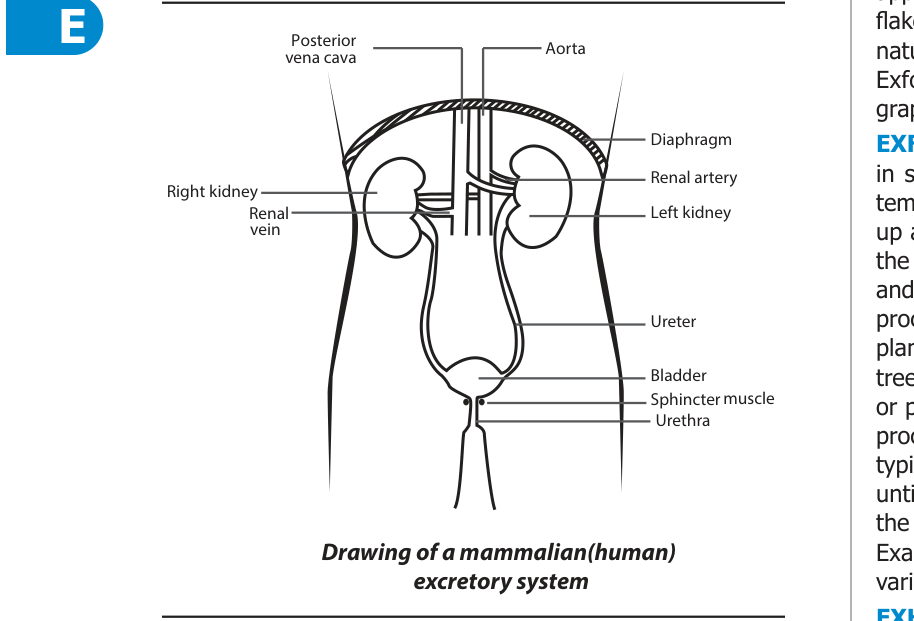
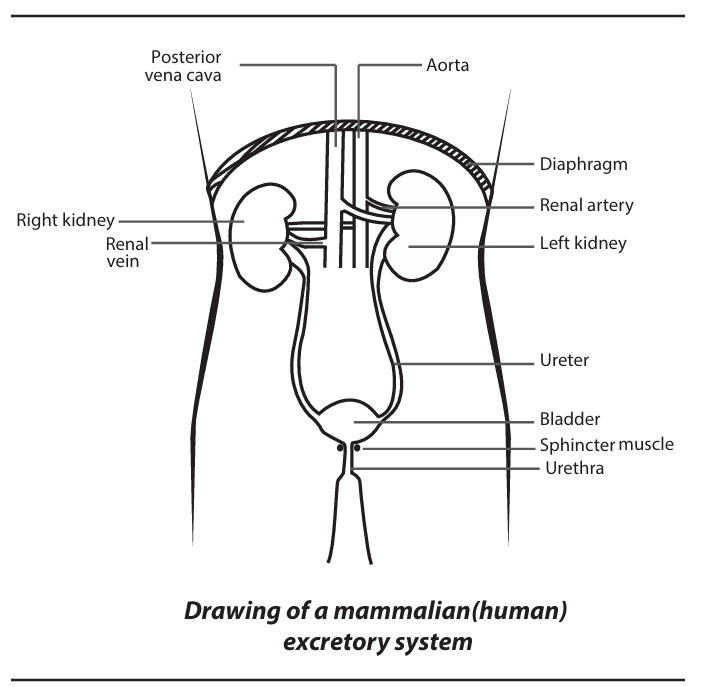
Section E-F Batch 6: excretory system, excurrent leaf, exothermic reaction, explanate flower, exterior angles, external work done on expansion, extrinsic semiconductor, mammalian eye, face-centred cube, fact triangle

Changed region(s): [[0.0, 0.0, 1.0, 0.9485], [0.0, 0.8567, 1.0, 1.0], [0.2486, 0.5813, 0.2797, 0.7649]]

diff --git a/core_dictionary_diagrams.js b/core_dictionary_diagrams.js
@@ -196,6 +196,7 @@ const DictionaryDiagrams = {
   "apothecium": "diagrams/dict_apothecium.png",
   "apothem": "diagrams/dict_apothem.png",
   "approximate integration": "diagrams/dict_approximate_integration.png",
+  "aqueous humor": "diagrams/dict_mammalian_eye.png",
   "arabidopsis": "diagrams/dict_arabidopsis.png",
   "arachidonic acid": "diagrams/dict_arachidonic_acid.png",
   "arc": "diagrams/dict_arc.png",
@@ -325,6 +326,7 @@ const DictionaryDiagrams = {
   "blastoderm": "diagrams/dict_egg.png",
   "blastodisc": "diagrams/dict_blastodisc.png",
   "blastodisc of egg": "diagrams/dict_blastodisc_of_egg.png",
+  "blind spot": "diagrams/dict_mammalian_eye.png",
   "block and tackle": "diagrams/dict_block_and_tackle.png",
   "blood capillary": "diagrams/dict_blood_capillary.png",
   "boiling point composition diagram": "diagrams/dict_boiling_point_composition_diagram.png",
@@ -480,6 +482,7 @@ const DictionaryDiagrams = {
   "chloroplast": "diagrams/dict_chloroplast.png",
   "chloroprene": "diagrams/dict_chloroprene.png",
   "cholesterol": "diagrams/dict_cholesterol.png",
+  "choroid": "diagrams/dict_mammalian_eye.png",
   "chromatic aberration": "diagrams/dict_chromatic_aberration.png",
   "chromatic number": "diagrams/dict_chromatic_number.png",
   "ciliate": "diagrams/dict_ciliate.png",
@@ -546,6 +549,7 @@ const DictionaryDiagrams = {
   "concavity": "diagrams/dict_concavity.png",
   "conduction band": "diagrams/dict_energy_band.png",
   "cone": "diagrams/dict_circular_cone.png",
+  "conjunctiva": "diagrams/dict_mammalian_eye.png",
   "connate": "diagrams/dict_connate_perfoliate.png",
   "connate perfoliate": "diagrams/dict_connate_perfoliate.png",
   "connate-perfoliate": "diagrams/dict_connate_perfoliate.png",
@@ -563,6 +567,7 @@ const DictionaryDiagrams = {
   "corm": "diagrams/dict_corm_cocoyam.png",
   "corm (bulbo tuber, bulbotuber)": "diagrams/dict_corm_bulbo_tuber_bulbotuber.png",
   "corm (bulbo-tuber; bulbotuber)": "diagrams/dict_corm_bulbo_tuber_bulbotuber.png",
+  "cornea": "diagrams/dict_mammalian_eye.png",
   "corniculate": "diagrams/dict_corniculate.png",
   "corolla": "diagrams/dict_corolla.png",
   "coroniform": "diagrams/dict_coroniform.png",
@@ -837,19 +842,35 @@ const DictionaryDiagrams = {
   "exclusive or": "diagrams/dict_xor_gate.png",
   "excretory system": "diagrams/dict_excretory_system.png",
   "excurrent": "diagrams/dict_excurrent.png",
+  "excurrent leaf": "diagrams/dict_excurrent_leaf.png",
+  "exothermic": "diagrams/dict_exothermic_reaction.png",
   "exothermic reaction": "diagrams/dict_exothermic_reaction.png",
+  "expansion work": "diagrams/dict_external_work_expansion.png",
   "explanate": "diagrams/dict_explanate.png",
+  "explanate flower": "diagrams/dict_explanate_flower.png",
   "extensor": "diagrams/dict_extensor.png",
   "exterior angle": "diagrams/dict_exterior_angle.png",
+  "exterior angles": "diagrams/dict_exterior_angles.png",
+  "exterior angles of a polygon": "diagrams/dict_exterior_angles.png",
+  "exterior angles of a triangle": "diagrams/dict_exterior_angles.png",
   "external features of a centipede": "diagrams/dict_centipede.png",
   "external features of an earthworm": "diagrams/dict_external_features_of_an_earthworm.png",
   "external work": "diagrams/dict_external_work.png",
+  "external work done on expansion": "diagrams/dict_external_work_expansion.png",
+  "extrinsic semiconductor": "diagrams/dict_extrinsic_semiconductor.png",
   "eye": "diagrams/dict_eye.png",
   "eyespot": "diagrams/dict_euglena.png",
+  "face-centered cubic": "diagrams/dict_face_centred_cube.png",
+  "face-centred cube": "diagrams/dict_face_centred_cube.png",
+  "face-centred cubic": "diagrams/dict_face_centred_cube.png",
+  "face-centred cubic lattice": "diagrams/dict_face_centred_cube.png",
+  "fact family": "diagrams/dict_fact_triangle.png",
+  "fact triangle": "diagrams/dict_fact_triangle.png",
   "factor tree": "diagrams/dict_factor_tree.png",
   "fall-out": "diagrams/dict_fall_out.png",
   "fat cell": "diagrams/dict_fat_cell.png",
   "fatty layer": "diagrams/dict_fatty_layer.png",
+  "fcc": "diagrams/dict_face_centred_cube.png",
   "feathers": "diagrams/dict_feathers.png",
   "fern": "diagrams/dict_fern.png",
   "feynman diagram": "diagrams/dict_feynman_diagram.png",
@@ -953,6 +974,7 @@ const DictionaryDiagrams = {
   "hot-wire ammeter": "diagrams/dict_hot_wire_ammeter.png",
   "hot-wire instrument": "diagrams/dict_hot_wire_instrument.png",
   "huckel rule": "diagrams/dict_huckel_rule.png",
+  "human excretory system": "diagrams/dict_excretory_system.png",
   "hydraulic machine": "diagrams/dict_hydraulic_machine.png",
   "hydrogen": "diagrams/dict_hydrogen.png",
   "hydrogen azide": "diagrams/dict_hydrogen_azide_hydrazoic_acid_azoimide.png",
@@ -994,6 +1016,7 @@ const DictionaryDiagrams = {
   "involute": "diagrams/dict_involute.png",
   "ion": "diagrams/dict_ion.png",
   "ionic bond": "diagrams/dict_ionic_bond.png",
+  "iris": "diagrams/dict_mammalian_eye.png",
   "isobutane": "diagrams/dict_isobutane.png",
   "isobutanol": "diagrams/dict_isobutanol.png",
   "isomerism": "diagrams/dict_isomerism.png",
@@ -1067,6 +1090,8 @@ const DictionaryDiagrams = {
   "malleus (hammer)": "diagrams/dict_malleus_hammer.png",
   "mammalia": "diagrams/dict_mammalia.png",
   "mammalian ear": "diagrams/dict_mammalian_ear.png",
+  "mammalian excretory system": "diagrams/dict_excretory_system.png",
+  "mammalian eye": "diagrams/dict_mammalian_eye.png",
   "mango": "diagrams/dict_mango.png",
   "mannitol": "diagrams/dict_mannitol_mannite_manna_sugar.png",
   "mannitol (mannite; manna sugar)": "diagrams/dict_mannitol_mannite_manna_sugar.png",
@@ -1123,6 +1148,7 @@ const DictionaryDiagrams = {
   "multicentre bond": "diagrams/dict_multicentre_bond.png",
   "n-butane": "diagrams/dict_n_butane.png",
   "n-phenylethanamide": "diagrams/dict_acetanilide.png",
+  "n-type semiconductor": "diagrams/dict_extrinsic_semiconductor.png",
   "naphthols": "diagrams/dict_naphthols_naphthyl_group.png",
   "naphthols (naphthyl group)": "diagrams/dict_naphthols_naphthyl_group.png",
   "nephroid": "diagrams/dict_nephroid.png",
@@ -1172,6 +1198,7 @@ const DictionaryDiagrams = {
   "one": "diagrams/dict_one.png",
   "onion": "diagrams/dict_onion.png",
   "opiate endogenous": "diagrams/dict_opiate_endogenous.png",
+  "optic nerve": "diagrams/dict_mammalian_eye.png",
   "optical dispersion": "diagrams/dict_dispersion_prism.png",
   "optical fibre": "diagrams/dict_optical_fibre.png",
   "optical pyrometer": "diagrams/dict_optical_pyrometer.png",
@@ -1194,6 +1221,7 @@ const DictionaryDiagrams = {
   "oxygen": "diagrams/dict_oxygen.png",
   "ozone": "diagrams/dict_ozone.png",
   "p-n junction diode": "diagrams/dict_p_n_junction_diode.png",
+  "p-type semiconductor": "diagrams/dict_extrinsic_semiconductor.png",
   "paleogeography": "diagrams/dict_paleogeography.png",
   "palmate": "diagrams/dict_palmate_digitate.png",
   "palmate (digitate)": "diagrams/dict_palmate_digitate.png",
@@ -1326,6 +1354,7 @@ const DictionaryDiagrams = {
   "prostomium": "diagrams/dict_earthworm.png",
   "pseudocopulation": "diagrams/dict_pseudocopulation.png",
   "pulley": "diagrams/dict_pulley.png",
+  "pupil": "diagrams/dict_mammalian_eye.png",
   "pyramid of numbers": "diagrams/dict_ecological_pyramid.png",
   "quadratic curve": "diagrams/dict_quadratic_curve.png",
   "quinone": "diagrams/dict_benzoquinone.png",
@@ -1335,12 +1364,16 @@ const DictionaryDiagrams = {
   "reaction": "diagrams/dict_reaction.png",
   "reaction coordinate": "diagrams/dict_reaction_coordinate.png",
   "reaction profile": "diagrams/dict_endothermic_reaction.png",
+  "reaction profile diagram": "diagrams/dict_exothermic_reaction.png",
   "reactivity series": "diagrams/dict_reactivity_series.png",
   "rectangular coordinates": "diagrams/dict_rectangular_coordinates.png",
   "reflection": "diagrams/dict_reflection.png",
   "refraction": "diagrams/dict_refraction.png",
+  "renal artery": "diagrams/dict_excretory_system.png",
+  "renal vein": "diagrams/dict_excretory_system.png",
   "resorcinol": "diagrams/dict_resorcinol.png",
   "respiratory system": "diagrams/dict_respiratory_system.png",
+  "retina": "diagrams/dict_mammalian_eye.png",
   "revolution": "diagrams/dict_revolution.png",
   "ricinus communis": "diagrams/dict_castor_oil.png",
   "rock cycle": "diagrams/dict_rock_cycle.png",
@@ -1358,6 +1391,7 @@ const DictionaryDiagrams = {
   "solar system": "diagrams/dict_solar_system.png",
   "specific heat capacity": "diagrams/dict_calorimeter.png",
   "spherical aberration": "diagrams/dict_spherical_aberration.png",
+  "sphincter muscle": "diagrams/dict_excretory_system.png",
   "standing wave": "diagrams/dict_standing_wave.png",
   "structure of a chloroplast": "diagrams/dict_chloroplast.png",
   "structure of an artery": "diagrams/dict_structure_of_an_artery.png",
@@ -1394,6 +1428,9 @@ const DictionaryDiagrams = {
   "typical plant cell": "diagrams/dict_typical_plant_cell.png",
   "ultraviolet": "diagrams/dict_electromagnetic_spectrum.png",
   "uniform field": "diagrams/dict_equipotential_surface.png",
+  "ureter": "diagrams/dict_excretory_system.png",
+  "urethra": "diagrams/dict_excretory_system.png",
+  "urinary bladder": "diagrams/dict_excretory_system.png",
   "val": "diagrams/dict_valine.png",
   "valence band": "diagrams/dict_energy_band.png",
   "valine": "diagrams/dict_valine.png",
@@ -1408,11 +1445,14 @@ const DictionaryDiagrams = {
   "vestibule": "diagrams/dict_eustachian_tube.png",
   "visible spectrum": "diagrams/dict_electromagnetic_spectrum.png",
   "vitamin c": "diagrams/dict_vitamin_c.png",
+  "vitreous humour": "diagrams/dict_mammalian_eye.png",
   "volcano": "diagrams/dict_volcano.png",
   "water cycle": "diagrams/dict_water_cycle.png",
   "wave": "diagrams/dict_wave.png",
+  "work done on expansion": "diagrams/dict_external_work_expansion.png",
   "xor": "diagrams/dict_xor_gate.png",
   "xor gate": "diagrams/dict_xor_gate.png",
+  "yellow spot": "diagrams/dict_mammalian_eye.png",
   "yolk": "diagrams/dict_egg.png"
 };
 

diff --git a/scripts/integrate_ef_batch_6.py b/scripts/integrate_ef_batch_6.py
@@ -1,0 +1,157 @@
+"""
+integrate_ef_batch_6.py
+=======================
+Section E-F Diagram Integration - Batch 6 (Screenshots 51-60)
+
+  51. Screenshot_8-9-2026_135311_  -> Drawing of a mammalian (human) excretory system
+  52. Screenshot_8-9-2026_135329_  -> Excurrent leaf
+  53. Screenshot_8-9-2026_135439_  -> Reaction profile diagram for exothermic reaction
+  54. Screenshot_8-9-2026_135517_  -> An explanate flower
+  55. Screenshot_8-9-2026_135628_  -> Exterior angles of triangle, transversal, polygon
+  56. Screenshot_8-9-2026_13572_   -> External work done on expansion
+  57. Screenshot_8-9-2026_135752_  -> Extrinsic semiconductor (p-type and n-type)
+  58. Screenshot_8-9-2026_135813_  -> Longitudinal section of a mammalian eye
+  59. Screenshot_8-9-2026_175251_  -> Face-centred cube (FCC)
+  60. Screenshot_8-9-2026_17532_   -> Addition/subtraction & multiplication/division fact triangle
+"""
+
+import json, shutil, os, sys
+sys.stdout.reconfigure(encoding='utf-8')
+
+SCREENSHOT_DIR = "e-d diagrams"
+DIAGRAMS_DIR   = "diagrams"
+
+copies = [
+    ("Screenshot_8-9-2026_135311_.jpeg",  "dict_excretory_system.png"),
+    ("Screenshot_8-9-2026_135329_.jpeg",  "dict_excurrent_leaf.png"),
+    ("Screenshot_8-9-2026_135439_.jpeg",  "dict_exothermic_reaction.png"),
+    ("Screenshot_8-9-2026_135517_.jpeg",  "dict_explanate_flower.png"),
+    ("Screenshot_8-9-2026_135628_.jpeg",  "dict_exterior_angles.png"),
+    ("Screenshot_8-9-2026_13572_.jpeg",   "dict_external_work_expansion.png"),
+    ("Screenshot_8-9-2026_135752_.jpeg",  "dict_extrinsic_semiconductor.png"),
+    ("Screenshot_8-9-2026_135813_.jpeg",  "dict_mammalian_eye.png"),
+    ("Screenshot_8-9-2026_175251_.jpeg",  "dict_face_centred_cube.png"),
+    ("Screenshot_8-9-2026_17532_.jpeg",   "dict_fact_triangle.png"),
+]
+
+print("-- Step 1: Copying screenshots -> diagrams/ --")
+for src_name, dst_name in copies:
+    src = os.path.join(SCREENSHOT_DIR, src_name)
+    dst = os.path.join(DIAGRAMS_DIR, dst_name)
+    if not os.path.exists(src):
+        print(f"  WARNING: {src} not found")
+        continue
+    shutil.copy2(src, dst)
+    print(f"  OK  {src_name}  ->  {dst_name}")
+
+NEW_MAPPINGS = {
+    # 51 - Mammalian Excretory System
+    "excretory system":                 "diagrams/dict_excretory_system.png",
+    "mammalian excretory system":       "diagrams/dict_excretory_system.png",
+    "human excretory system":           "diagrams/dict_excretory_system.png",
+    "kidney":                           "diagrams/dict_excretory_system.png",
+    "ureter":                           "diagrams/dict_excretory_system.png",
+    "renal artery":                     "diagrams/dict_excretory_system.png",
+    "renal vein":                       "diagrams/dict_excretory_system.png",
+    "urethra":                          "diagrams/dict_excretory_system.png",
+    "urinary bladder":                  "diagrams/dict_excretory_system.png",
+    "sphincter muscle":                 "diagrams/dict_excretory_system.png",
+
+    # 52 - Excurrent leaf
+    "excurrent leaf":                   "diagrams/dict_excurrent_leaf.png",
+    "excurrent":                        "diagrams/dict_excurrent_leaf.png",
+
+    # 53 - Exothermic reaction profile
+    "exothermic reaction":              "diagrams/dict_exothermic_reaction.png",
+    "reaction profile":                 "diagrams/dict_exothermic_reaction.png",
+    "reaction profile diagram":         "diagrams/dict_exothermic_reaction.png",
+    "exothermic":                       "diagrams/dict_exothermic_reaction.png",
+    "activation energy":                "diagrams/dict_exothermic_reaction.png",
+
+    # 54 - Explanate flower
+    "explanate flower":                 "diagrams/dict_explanate_flower.png",
+    "explanate":                        "diagrams/dict_explanate_flower.png",
+
+    # 55 - Exterior angles
+    "exterior angle":                   "diagrams/dict_exterior_angles.png",
+    "exterior angles":                  "diagrams/dict_exterior_angles.png",
+    "exterior angles of a triangle":    "diagrams/dict_exterior_angles.png",
+    "exterior angles of a polygon":     "diagrams/dict_exterior_angles.png",
+
+    # 56 - External work done on expansion
+    "external work done on expansion":  "diagrams/dict_external_work_expansion.png",
+    "work done on expansion":           "diagrams/dict_external_work_expansion.png",
+    "expansion work":                   "diagrams/dict_external_work_expansion.png",
+
+    # 57 - Extrinsic semiconductor
+    "extrinsic semiconductor":          "diagrams/dict_extrinsic_semiconductor.png",
+    "p-type semiconductor":             "diagrams/dict_extrinsic_semiconductor.png",
+    "n-type semiconductor":             "diagrams/dict_extrinsic_semiconductor.png",
+
+    # 58 - Mammalian eye
+    "mammalian eye":                    "diagrams/dict_mammalian_eye.png",
+    "eye":                              "diagrams/dict_mammalian_eye.png",
+    "cornea":                           "diagrams/dict_mammalian_eye.png",
+    "iris":                             "diagrams/dict_mammalian_eye.png",
+    "pupil":                            "diagrams/dict_mammalian_eye.png",
+    "retina":                           "diagrams/dict_mammalian_eye.png",
+    "vitreous humour":                  "diagrams/dict_mammalian_eye.png",
+    "aqueous humor":                    "diagrams/dict_mammalian_eye.png",
+    "blind spot":                       "diagrams/dict_mammalian_eye.png",
+    "yellow spot":                      "diagrams/dict_mammalian_eye.png",
+    "optic nerve":                      "diagrams/dict_mammalian_eye.png",
+    "choroid":                          "diagrams/dict_mammalian_eye.png",
+    "conjunctiva":                      "diagrams/dict_mammalian_eye.png",
+
+    # 59 - Face-centred cube
+    "face-centred cube":                "diagrams/dict_face_centred_cube.png",
+    "face-centred cubic":               "diagrams/dict_face_centred_cube.png",
+    "face-centered cubic":              "diagrams/dict_face_centred_cube.png",
+    "fcc":                              "diagrams/dict_face_centred_cube.png",
+    "face-centred cubic lattice":       "diagrams/dict_face_centred_cube.png",
+
+    # 60 - Fact triangle
+    "fact triangle":                    "diagrams/dict_fact_triangle.png",
+    "fact family":                      "diagrams/dict_fact_triangle.png",
+}
+
+MAP_FILE = "dictionary_diagrams_map.json"
+print(f"\n-- Step 2: Updating {MAP_FILE} --")
+
+with open(MAP_FILE, "r", encoding="utf-8") as f:
+    diagram_map = json.load(f)
+
+added = skipped = 0
+for term, path in NEW_MAPPINGS.items():
+    if term not in diagram_map:
+        diagram_map[term] = path
+        print(f"  + Added:   \"{term}\"")
+        added += 1
+    else:
+        print(f"  ~ Skipped: \"{term}\" (exists -> {diagram_map[term]})")
+        skipped += 1
+
+diagram_map_sorted = dict(sorted(diagram_map.items()))
+with open(MAP_FILE, "w", encoding="utf-8") as f:
+    json.dump(diagram_map_sorted, f, indent=2, ensure_ascii=False)
+print(f"\n  OK {MAP_FILE} saved. Added: {added}, Skipped: {skipped}")
+
+print("\n-- Step 3: Rebuilding core_dictionary_diagrams.js --")
+js_lines = ["const DictionaryDiagrams = {"]
+items = list(diagram_map_sorted.items())
+for i, (term, path) in enumerate(items):
+    comma = "," if i < len(items) - 1 else ""
+    js_lines.append(f'  "{term}": "{path}"{comma}')
+js_lines += ["};", "",
+    "if (typeof window !== 'undefined') {",
+    "  window.DictionaryDiagrams = DictionaryDiagrams;",
+    "}",
+    "if (typeof module !== 'undefined') {",
+    "  module.exports = DictionaryDiagrams;",
+    "}"]
+
+with open("core_dictionary_diagrams.js", "w", encoding="utf-8") as f:
+    f.write("\n".join(js_lines) + "\n")
+
+print("  OK core_dictionary_diagrams.js rebuilt.")
+print("\nBatch 6 integration complete!")

diff --git a/AUTONOMOUS_MISSION_LOG_SECTIONS_EF.md b/AUTONOMOUS_MISSION_LOG_SECTIONS_EF.md
@@ -101,6 +101,22 @@ Total Screenshots to Process: **94**
 
 ---
 
+### Batch 6: Screenshots 51 – 60
+| # | File Name | Visual Content Observed (Native Vision) | Extracted Captions & Labels | Mapped Dictionary Term(s) | Status |
+|---|---|---|---|---|---|
+| 51 | `Screenshot_8-9-2026_135311_.jpeg` | Mammalian (human) excretory system anatomy | Posterior vena cava, Aorta, Diaphragm, Renal artery, Left kidney, Right kidney, Renal vein, Ureter, Bladder, Sphincter muscle, Urethra. Caption: *Drawing of a mammalian(human) excretory system* | `excretory system`, `mammalian excretory system`, `human excretory system`, `kidney`, `ureter`, `renal artery`, `renal vein`, `urethra`, `urinary bladder`, `sphincter muscle` | ✅ Integrated in `core_dictionary_diagrams.js` |
+| 52 | `Screenshot_8-9-2026_135329_.jpeg` | Excurrent leaf with apex projecting as point | Midrib extending as sharp point beyond the blade margin. Caption: *Excurrent leaf* | `excurrent leaf`, `excurrent` | ✅ Integrated in `core_dictionary_diagrams.js` |
+| 53 | `Screenshot_8-9-2026_135439_.jpeg` | Exothermic reaction profile coordinate diagram | Potential energy / Enthalpy change vs Reaction Coordinate; Reactants A+B at P, Products C+D at Q, Activation energy Ea hump, $\Delta H = \text{-ve}$. Caption: *Reaction profile diagram for exothermic reaction* | `exothermic reaction`, `reaction profile`, `reaction profile diagram`, `exothermic`, `activation energy` | ✅ Integrated in `core_dictionary_diagrams.js` |
+| 54 | `Screenshot_8-9-2026_135517_.jpeg` | Explanate flower with flatly spreading petals | Corolla tube with five lobes spread flat horizontally. Caption: *An explanate flower* | `explanate flower`, `explanate` | ✅ Integrated in `core_dictionary_diagrams.js` |
+| 55 | `Screenshot_8-9-2026_135628_.jpeg` | Triple figure illustrating exterior angles in geometry | Fig I: Triangle exterior angles (1, 2, 3); Fig II: Transversal crossing parallel lines (angles A, B, G, H); Fig III: Polygon exterior angles (A, B, C, D, E). Caption: *Fig I: Exterior angles of a triangle; Fig II: Exterior angles formed by a transversal crossing two lines; Fig III: Exterior angles of a polygon* | `exterior angle`, `exterior angles`, `exterior angles of a triangle`, `exterior angles of a polygon` | ✅ Integrated in `core_dictionary_diagrams.js` |
+| 56 | `Screenshot_8-9-2026_13572_.jpeg` | Thermodynamic indicator diagram: work on gas expansion | Pressure vs Volume curve from $(P_1, v_1)$ to $(P_2, v_2)$ with shaded infinitesimal strip $P\,dv$. Caption: *External work done on expansion* | `external work done on expansion`, `work done on expansion`, `expansion work` | ✅ Integrated in `core_dictionary_diagrams.js` |
+| 57 | `Screenshot_8-9-2026_135752_.jpeg` | Dual energy band diagrams for extrinsic semiconductors | Top: p-type semiconductor (acceptor levels near valence band, holes in VB, electrons in CB); Bottom: n-type semiconductor (donor levels near conduction band, electrons in CB, holes in VB, $E_g$). Caption: *A p-type semiconductor / An n-type semiconductor* | `extrinsic semiconductor`, `p-type semiconductor`, `n-type semiconductor` | ✅ Integrated in `core_dictionary_diagrams.js` |
+| 58 | `Screenshot_8-9-2026_135813_.jpeg` | Longitudinal section of a mammalian eye | External eye muscle, Sclerotic layer, Choroid, Yellow spot, Retina, Blind spot, Optic nerve, Vitreous humour, Ciliary muscle in ciliary body, Suspensory ligament, Lens, Pupil, Aqueous Humor, Iris, Cornea, Conjunctiva. Caption: *Longitudinal section of a mammalian eye* | `mammalian eye`, `eye`, `cornea`, `iris`, `pupil`, `retina`, `vitreous humour`, `aqueous humor`, `blind spot`, `yellow spot`, `optic nerve`, `choroid`, `conjunctiva` | ✅ Integrated in `core_dictionary_diagrams.js` |
+| 59 | `Screenshot_8-9-2026_175251_.jpeg` | Face-centred cubic (FCC) unit cell crystal lattice | 8 corner lattice atoms + 6 face-center lattice atoms. Caption: *Face-centred cube* | `face-centred cube`, `face-centred cubic`, `face-centered cubic`, `fcc`, `face-centred cubic lattice` | ✅ Integrated in `core_dictionary_diagrams.js` |
+| 60 | `Screenshot_8-9-2026_17532_.jpeg` | Fact triangle arithmetic models | Left: Addition/Subtraction Fact Triangle ($16$ at vertex, $10$ & $6$ base, $+,-$); Right: Multiplication/Division Fact Triangle ($24$ at vertex, $6$ & $4$ base, $\times,\div$). Caption: *Addition/Subtraction Fact Triangle / Multiplication/Division Fact Triangle* | `fact triangle`, `fact family` | ✅ Integrated in `core_dictionary_diagrams.js` |
+
+---
+
 ## 📐 Part 2: Section E Formula Enrichment
 
 ### Pipeline Workflow:
